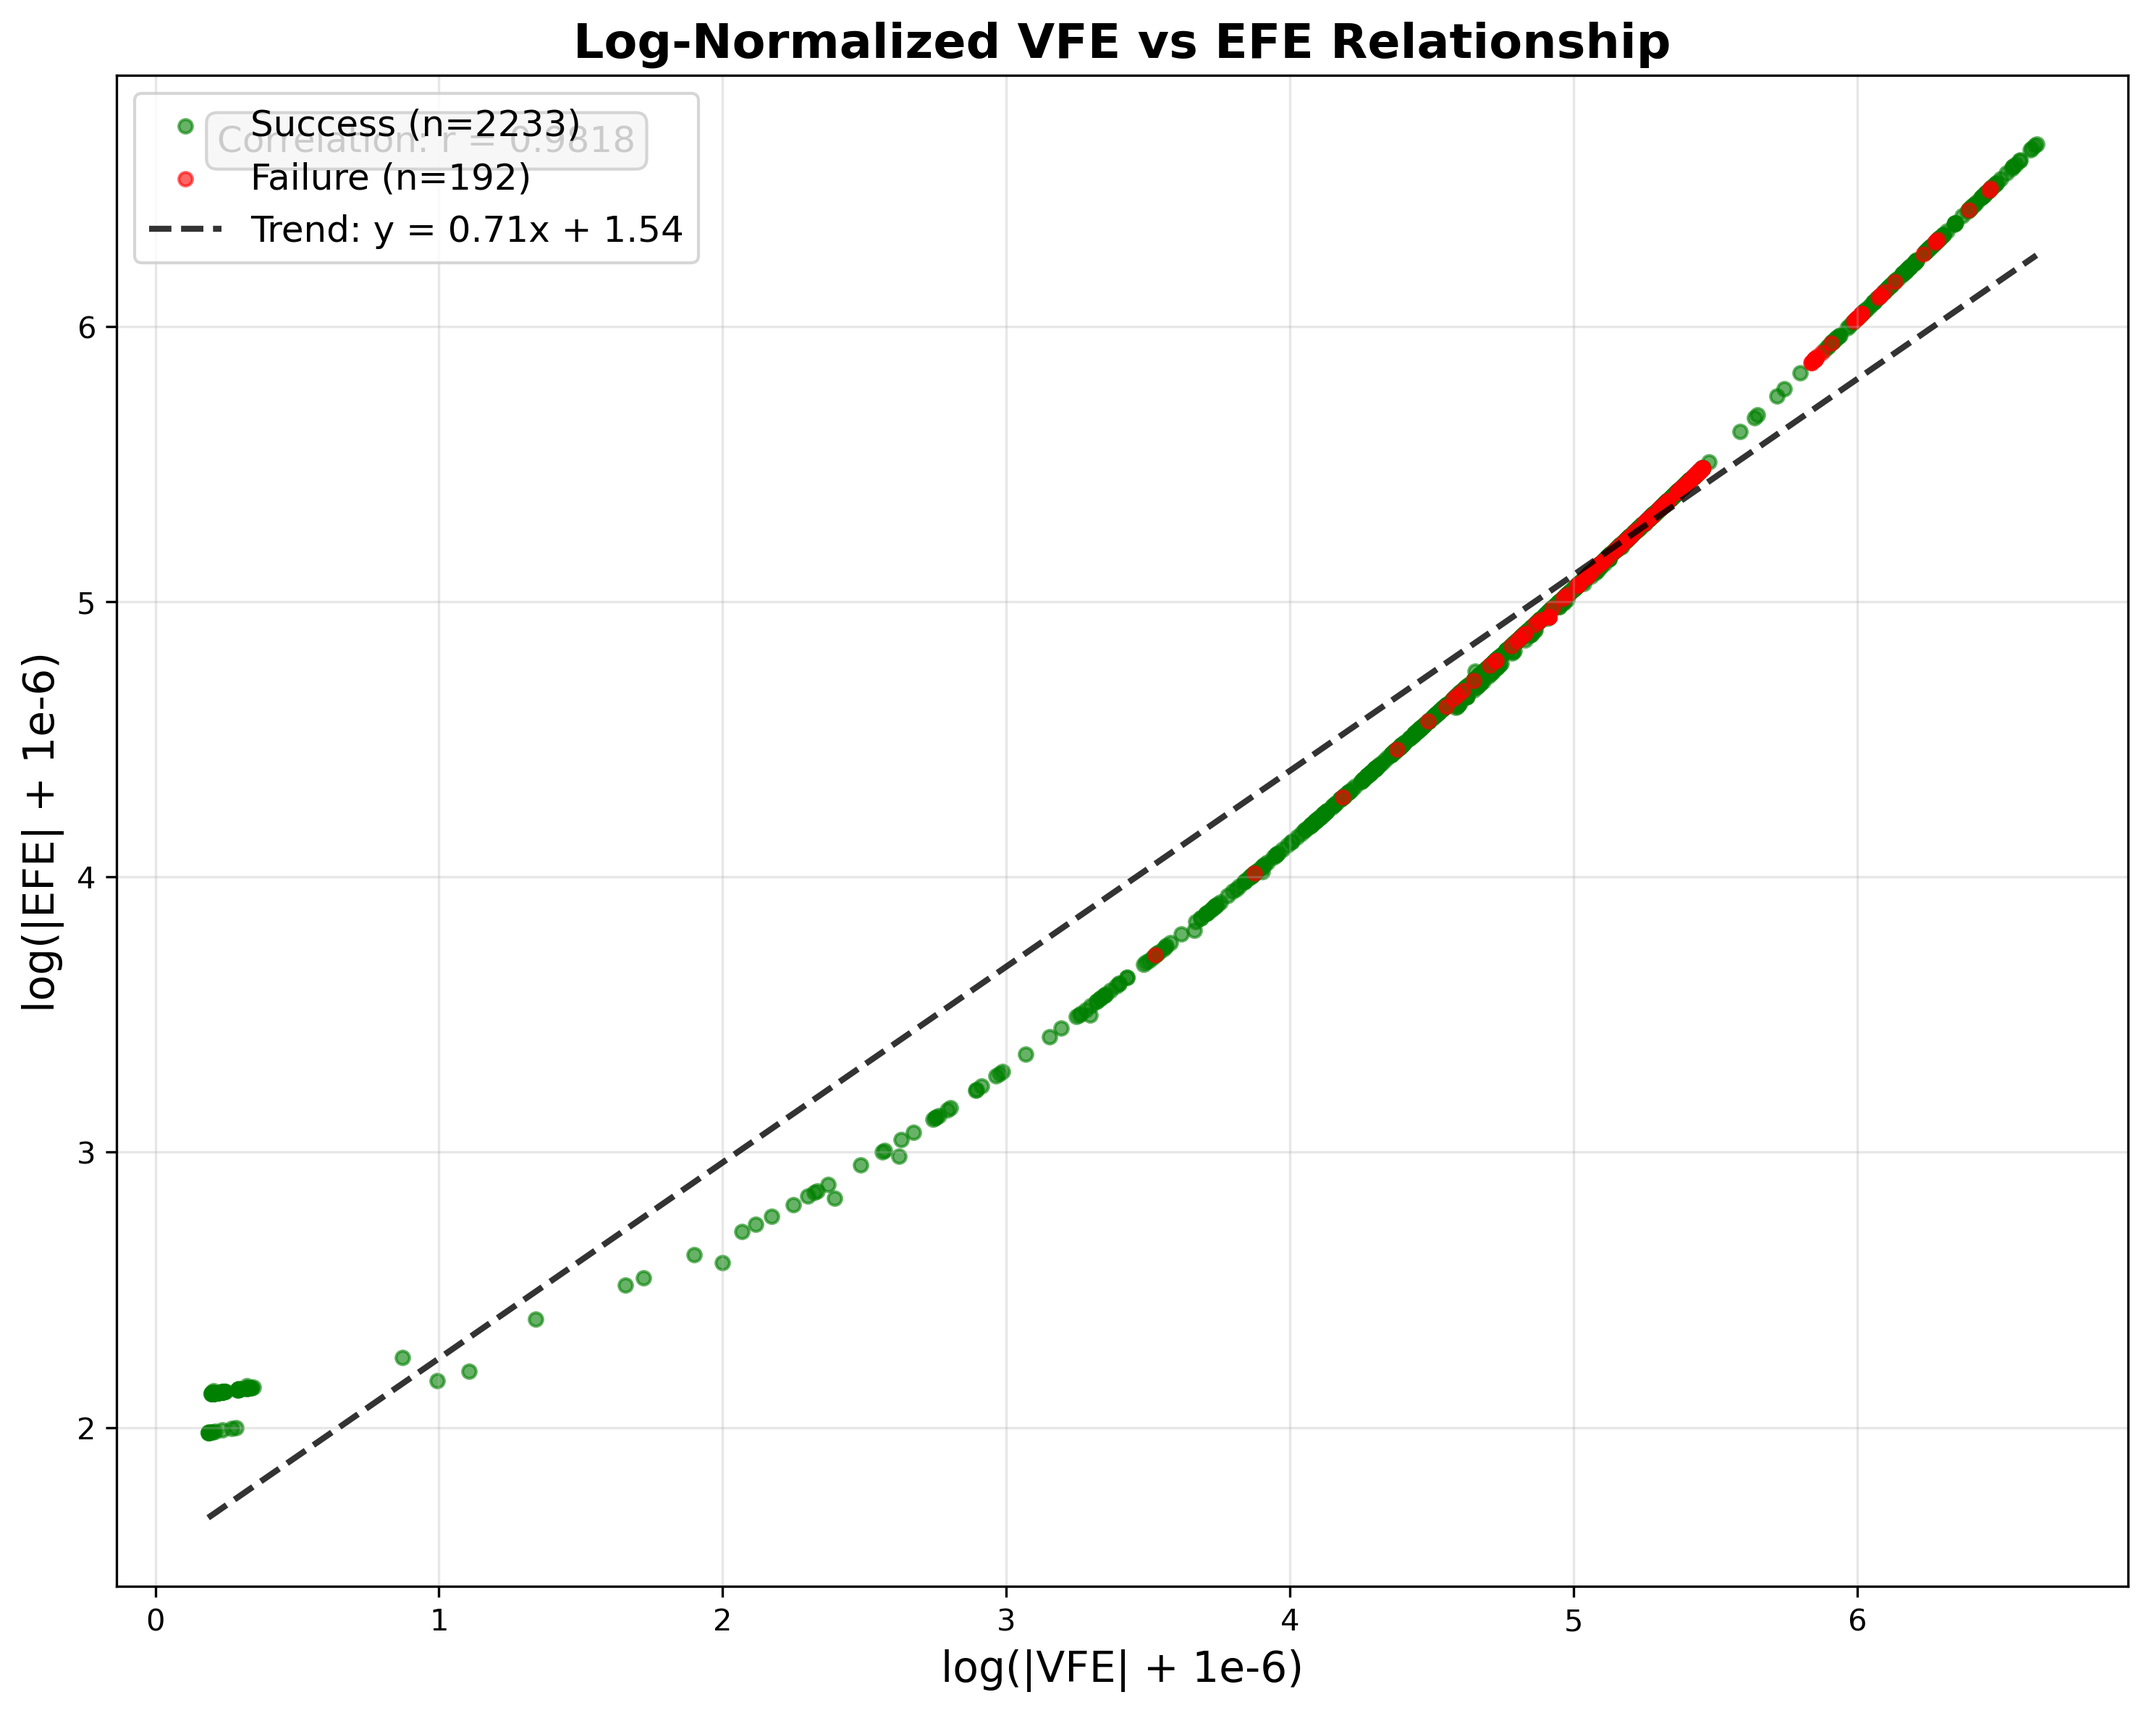
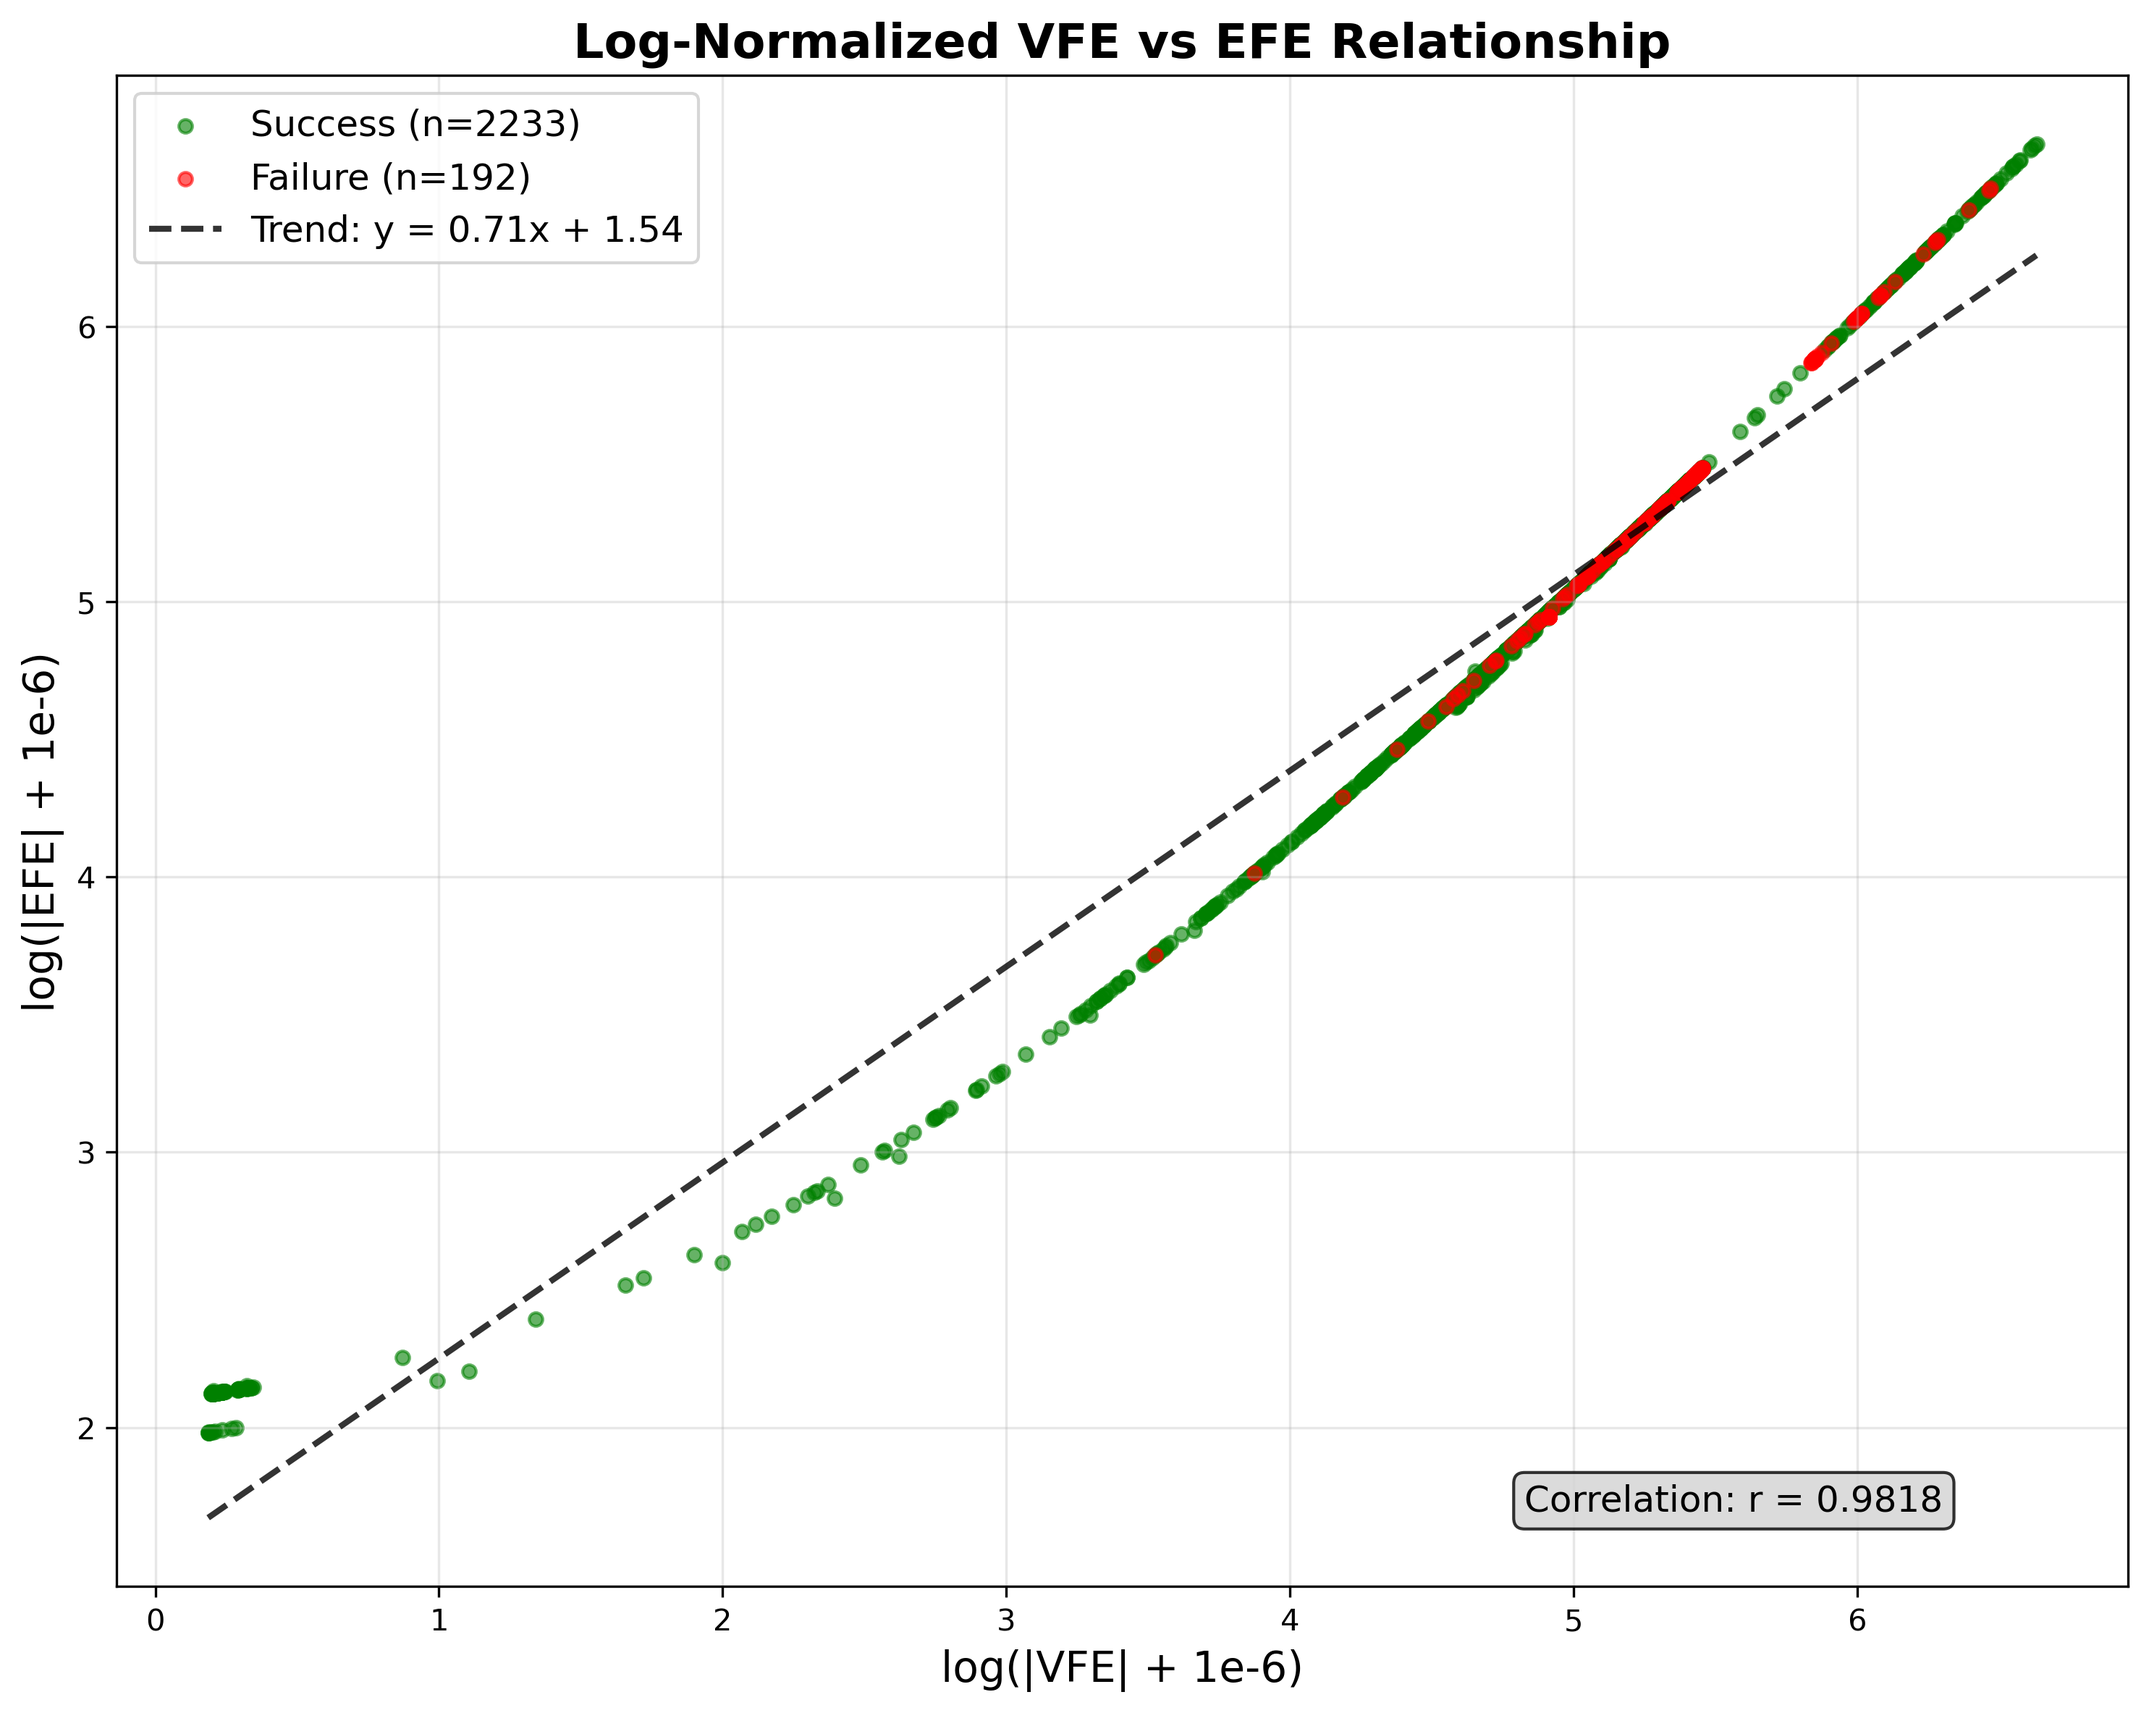
feat: Update correlation display and legend positioning in analysis report for clarity

Changed region(s): [[0.6817, 0.8331, 0.9296, 0.8948], [0.093, 0.0617, 0.3099, 0.0926]]

diff --git a/data_analysis/analyze_single_environment.py b/data_analysis/analyze_single_environment.py
@@ -1847,7 +1847,9 @@ Implications:
         
         # Calculate and display correlation
         corr = np.corrcoef(log_vfe.dropna(), log_efe.dropna())[0, 1]
-        plt.text(0.05, 0.95, f'Correlation: r = {corr:.4f}', 
+        
+        # Move correlation text to the bottom right to avoid legend overlap
+        plt.text(0.70, 0.05, f'Correlation: r = {corr:.4f}', 
                 transform=plt.gca().transAxes, fontsize=12,
                 bbox=dict(boxstyle="round,pad=0.3", facecolor="lightgray", alpha=0.8))
         
@@ -1855,7 +1857,10 @@ Implications:
         plt.xlabel('log(|VFE| + 1e-6)', fontsize=14)
         plt.ylabel('log(|EFE| + 1e-6)', fontsize=14)
         plt.grid(True, alpha=0.3)
-        plt.legend(fontsize=12)
+        
+        # Position the legend at the top left to avoid overlap with correlation text
+        plt.legend(loc='upper left', fontsize=12)
+        
         plt.tight_layout()
         plt.savefig(os.path.join(RESULTS_DIR, 'log_vfe_efe_scatter.png'), dpi=300, bbox_inches='tight')
         plt.close()

diff --git a/data_analysis/results/single_environment_analysis_report.md b/data_analysis/results/single_environment_analysis_report.md
@@ -1,6 +1,6 @@
 # Active Inference Experiment Analysis Report
 
-**Generated on:** 2025-05-27 18:38:37
+**Generated on:** 2025-05-27 19:36:59
 **Total Episodes:** 149
 
 ## Episode Outcomes
@@ -119,5 +119,5 @@
 - **Energy Coupling**: Strong correlation indicates tight VFE-EFE relationship
 
 ---
-**Analysis completed**: 2025-05-27 18:39:01
+**Analysis completed**: 2025-05-27 19:37:25
 **Framework**: Single Environment Active Inference Analysis v2.0
